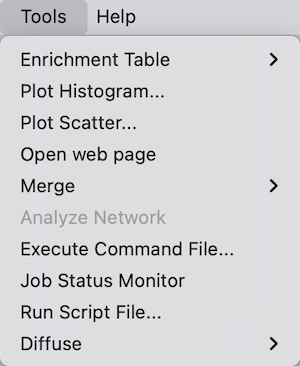
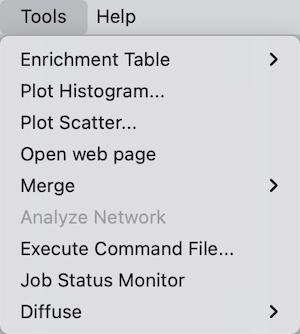
updated tools menu

diff --git a/docs/Quick_Tour_of_Cytoscape.md b/docs/Quick_Tour_of_Cytoscape.md
@@ -197,7 +197,7 @@ similar function.
 <a id="tools"> </a>
 ### Tools
 
-The **Tools** menu contains advanced features like **[Enrichment Table](EnrichmentTable.html)**, **[cyChart](Finding_and_Filtering_Nodes_and_Edges.html#cychart)**, **[Analyze Network](Network_Analyzer.html#networkanalyzer)**, **[Open web page](CyBrowser.html)**, **[Merge](Merge.html#merge)**, **[Execute Command File...](Command_Tool.html)**, **Job Status Monitor**, **Run Script File...** and **[Diffuse](Finding_and_Filtering_Nodes_and_Edges.html#diffusion)**.
+The **Tools** menu contains advanced features like **[Enrichment Table](EnrichmentTable.html)**, **[cyChart](Finding_and_Filtering_Nodes_and_Edges.html#cychart)**, **[Analyze Network](Network_Analyzer.html#networkanalyzer)**, **[Open web page](CyBrowser.html)**, **[Merge](Merge.html#merge)**, **[Execute Command File...](Command_Tool.html)**, **Job Status Monitor** and **[Diffuse](Finding_and_Filtering_Nodes_and_Edges.html#diffusion)**.
 
 **Cytoscape Web Browser** allows for viewing any html page directly in Cytoscape. The web browser can be opened in a separate window or can be launched in the **Results Panel**. 
 
